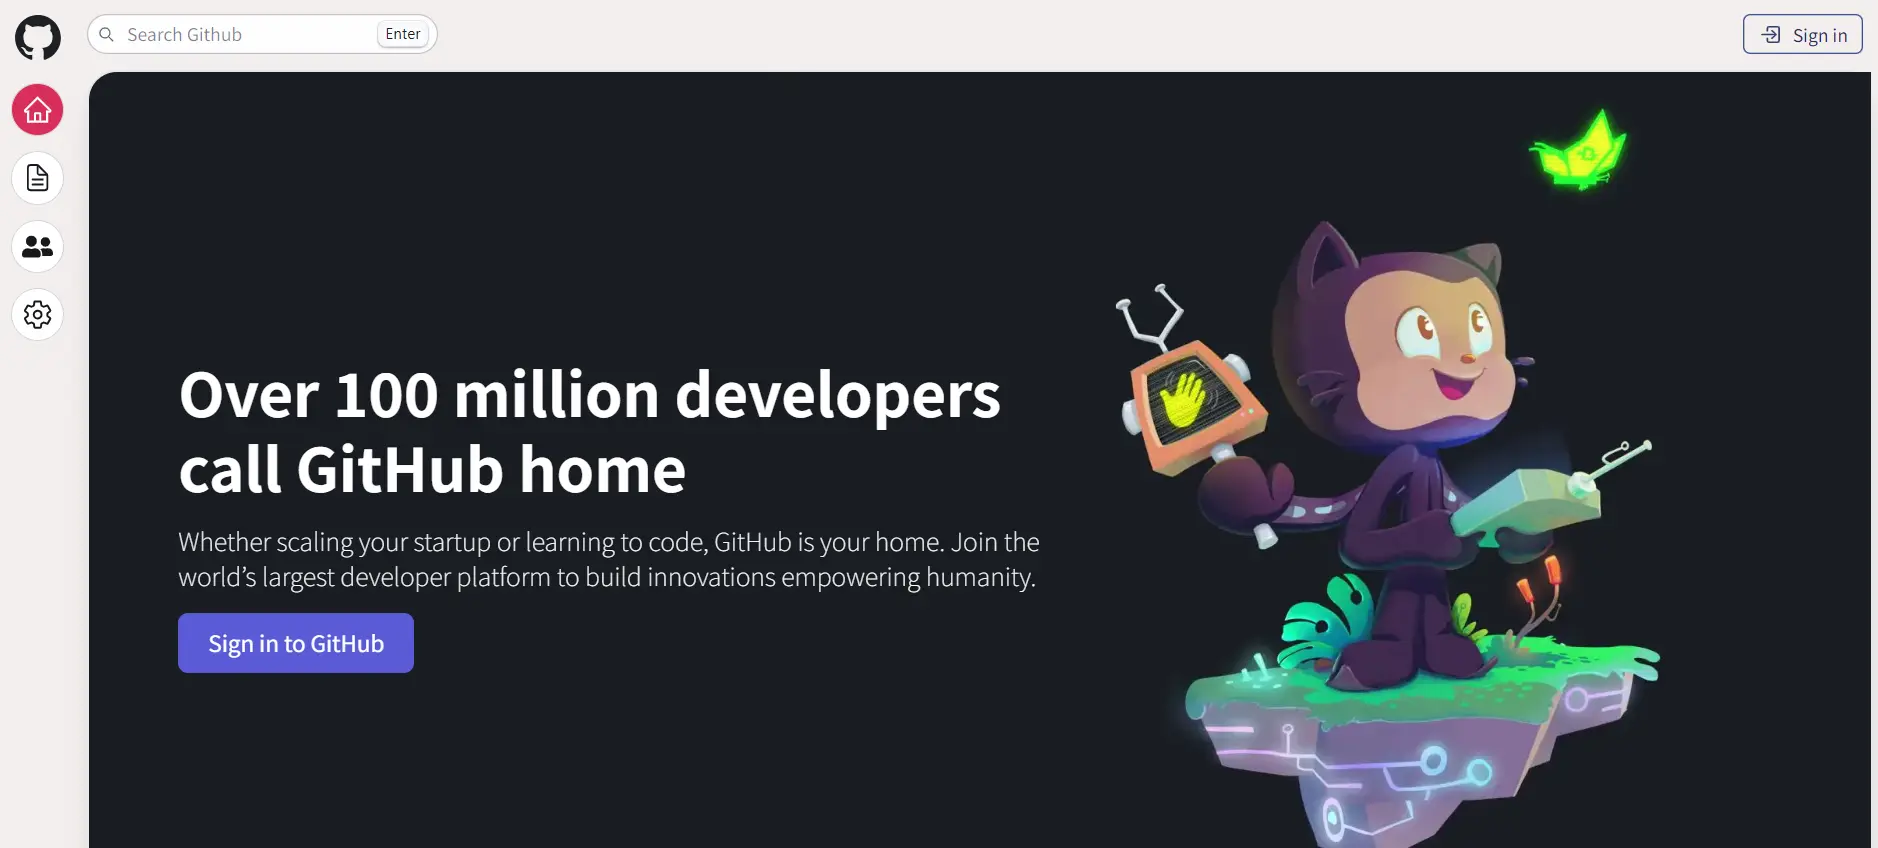
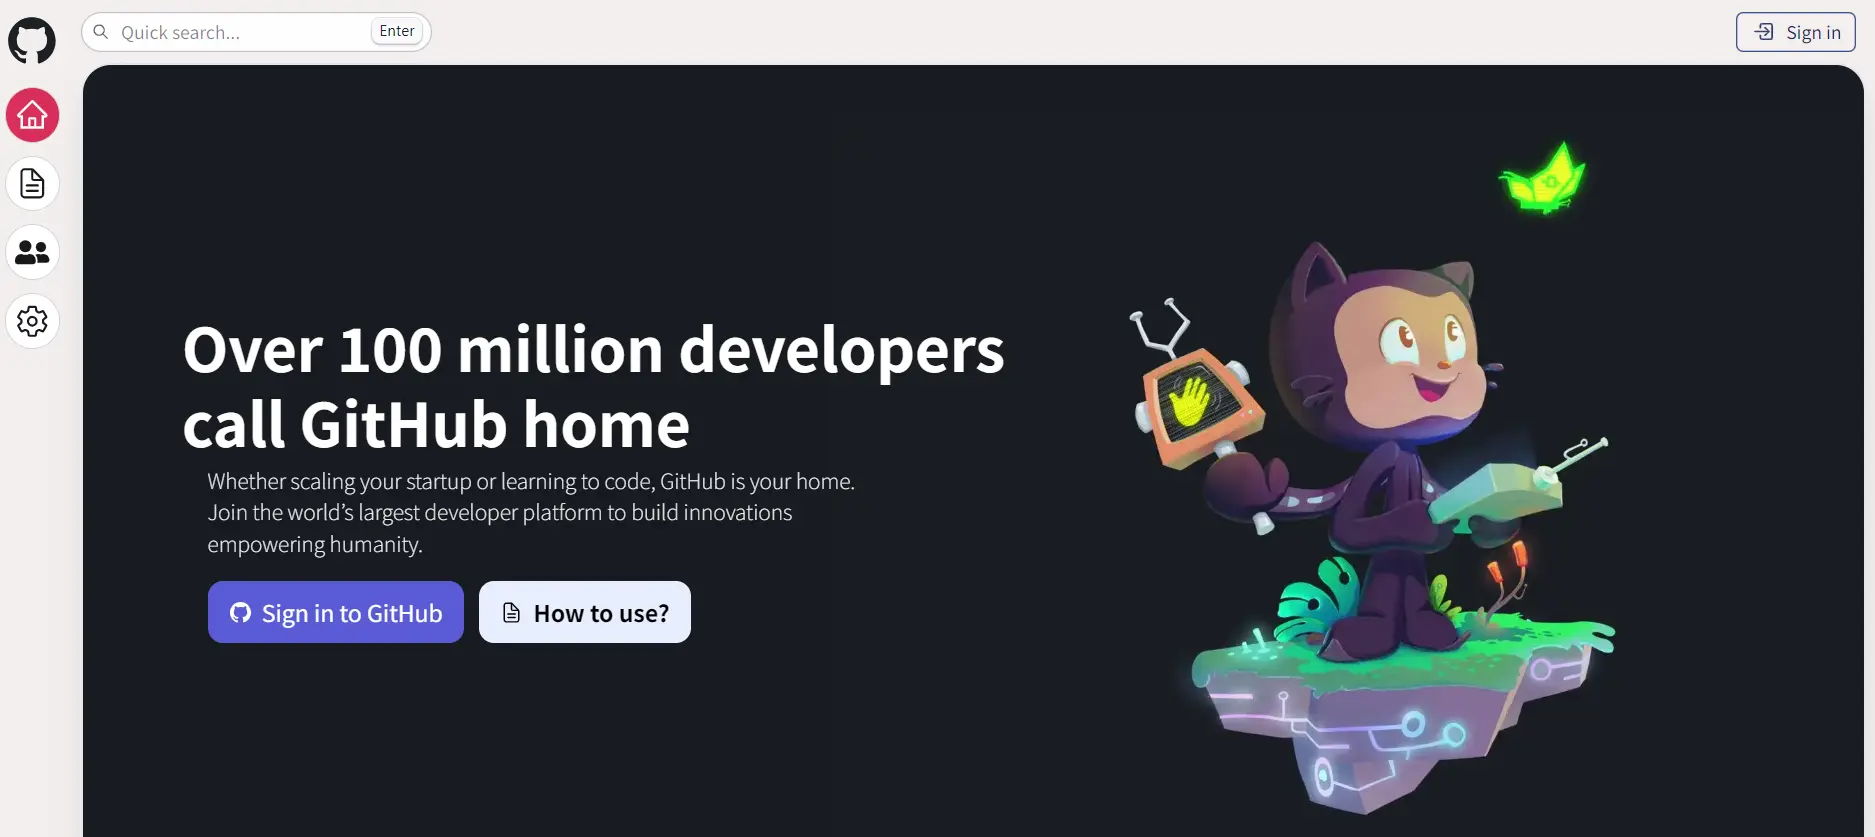
:lipstick: Gitflow chart 컴포넌트 추가 및 Qeury client staletime 설정

diff --git a/src/app/(hero)/_components/GitFlow.tsx b/src/app/(hero)/_components/GitFlow.tsx
@@ -1,0 +1,104 @@
+"use client";
+import { Gitgraph, Orientation, templateExtend } from "@gitgraph/react";
+
+enum TemplateName {
+  Metro = "metro",
+  BlackArrow = "blackarrow",
+}
+
+const options = {
+  branchLabelOnEveryCommit: true,
+  orientation: Orientation.Horizontal,
+  template: templateExtend(TemplateName.Metro, {
+    colors: [
+      "#fa6d01",
+      "#4f4f4f",
+      "#34ccc1",
+      "darkgreen",
+      "yellowgreen",
+      "navy",
+    ],
+    branch: {
+      lineWidth: 6,
+      spacing: 40,
+      label: {
+        display: false,
+      },
+    },
+    commit: {
+      message: {
+        displayAuthor: false,
+        displayHash: false,
+      },
+      dot: {
+        size: 15,
+        strokeColor: "white",
+        strokeWidth: 2,
+      },
+      spacing: 50,
+    },
+    arrow: {
+      size: 0,
+      color: "orange",
+      offset: -1.5,
+    },
+  }),
+};
+
+const GitFlow = () => {
+  return (
+    <Gitgraph options={options}>
+      {(gitgraph) => {
+        const master = gitgraph.branch("Main");
+        master.commit("");
+        master.commit("");
+        master.commit({
+          dotText: "A",
+          style: {
+            dot: {
+              size: 15,
+              color: "white",
+              strokeWidth: 5,
+              strokeColor: "#fa6d01",
+            },
+          },
+        });
+        let branch1 = gitgraph.branch("1");
+        branch1.commit("");
+        branch1.commit({
+          dotText: "B",
+          style: {
+            dot: {
+              size: 15,
+              color: "white",
+              strokeWidth: 5,
+              strokeColor: "#4f4f4f",
+            },
+          },
+        });
+        let branch2 = branch1.branch("2");
+        branch2.commit("");
+        master.commit("");
+        branch2.commit("");
+        branch1.merge(branch2);
+        branch1.commit("");
+        master.merge({
+          branch: branch1,
+          commitOptions: {
+            dotText: "C",
+            style: {
+              dot: {
+                size: 15,
+                color: "white",
+                strokeWidth: 5,
+                strokeColor: "#fa6d01",
+              },
+            },
+          },
+        });
+      }}
+    </Gitgraph>
+  );
+};
+
+export default GitFlow;

diff --git a/src/app/(hero)/_components/HeroMotion.tsx b/src/app/(hero)/_components/HeroMotion.tsx
@@ -11,6 +11,7 @@ import LoadingSpinner from "@/app/components/LoadingSpinner";
 import { useSession } from "next-auth/react";
 import useSplash from "@/hooks/useSplash";
 import HeroButtonGroup from "./HeroButtonGroup";
+// import GitFlow from "./GitFlow";
 
 const HeroMotion = () => {
   const [currentIndex, setCurrentIndex] = useState(1);
@@ -19,6 +20,7 @@ const HeroMotion = () => {
   const { status } = useSession();
   const totalRatio = useTransform(scrollYProgress, [0, 0.4], [0, 1]);
   const { showSplash } = useSplash();
+  // const width = useTransform(scrollYProgress, [0, 0.4], ["0%", "120%"]);
 
   useMotionValueEvent(scrollYProgress, "change", (latest) => {
     setCurrentIndex(Math.round(totalRatio.get() * 159) + 1);
@@ -38,6 +40,12 @@ const HeroMotion = () => {
     <div className="h-[200vh]">
       <div className="sticky top-0 flex justify-between items-center">
         <div className="relative left-[7%] z-[100] text-white flex flex-col space-y-[2.5vh]">
+          {/* <motion.div
+            className="relative"
+            style={{ width, overflow: "hidden" }}
+          >
+            <GitFlow />
+          </motion.div> */}
           <div className="font-semibold text-[2.5vw] max-w-[50vw] leading-tight scale-125 translate-x-[3vw]">
             <div>Over 100 million developers call GitHub home</div>
           </div>
@@ -55,7 +63,7 @@ const HeroMotion = () => {
             width={900}
             height={675}
             alt={`octocat${currentIndex}`}
-            className="translate-x-[4vw] translate-y-[5vh]"
+            className="translate-x-[4vw] translate-y-[5vh] z-50"
             priority
             ref={ref}
           />

diff --git a/src/app/(hero)/_components/HeroButton.tsx b/src/app/(hero)/_components/HeroButton.tsx
@@ -3,19 +3,19 @@ import React from "react";
 type Props = {
   title: string;
   icon: React.ReactNode;
-  color: "white" | "iris";
+  color: "white" | "blue";
   onClick: () => void;
 };
 
-// todo: classnames 추가
 const HeroButton = ({ title, icon, color, onClick }: Props) => {
-  const buttonColor = color === "white" ? "#e7eefe" : "#5b5bd5";
-  const textColor = color === "white" ? "text-black" : "";
-  const font = color === "white" ? "font-semibold" : "font-normal";
+  const colorStyle =
+    color === "white"
+      ? "bg-[#e7eefe] border-[#e7eefe] text-black font-semibold"
+      : "bg-[#5b5bd5] border-[#5b5bd5] text-white font-normal";
 
   return (
     <button
-      className={`self-start ${font} ${textColor} text-[1.2vw] border-2 border-[${buttonColor}] p-[0.6vw] px-[1vw] rounded-xl bg-[${buttonColor}] hover:opacity-85`}
+      className={`${colorStyle} self-start text-[1.2vw] border-2 p-[0.6vw] px-[1vw] rounded-xl  hover:opacity-85`}
       onClick={onClick}
     >
       <div className="flex gap-2 items-center">

diff --git a/src/app/QueryClientProvider.tsx b/src/app/QueryClientProvider.tsx
@@ -9,9 +9,11 @@ import { PropsWithChildren } from "react";
 const queryClient = new QueryClient({
   defaultOptions: {
     queries: {
-      refetchOnMount: false, // 컴포넌트가 마운트될 때 해당 쿼리를 다시 불러올지
-      refetchOnWindowFocus: false, // 윈도우 포커스마다 불러올지
-      retry: false, // 실패하면 자동으로 재시도할지
+      refetchOnMount: false,
+      refetchOnReconnect: false,
+      refetchOnWindowFocus: false,
+      retry: false,
+      staleTime: 1000 * 60 * 60,
     },
   },
   queryCache: new QueryCache({

diff --git a/src/app/(hero)/_components/HeroButtonGroup.tsx b/src/app/(hero)/_components/HeroButtonGroup.tsx
@@ -15,14 +15,14 @@ const HeroButtonGroup = () => {
       {user ? (
         <HeroButton
           title="Dashboard"
-          color="iris"
+          color="blue"
           icon={<DashboardIcon size={"1.2vw"} />}
           onClick={() => router.push("/me")}
         />
       ) : (
         <HeroButton
           title="Sign in to GitHub"
-          color="iris"
+          color="blue"
           icon={<GithubIcon size={"1.2vw"} />}
           onClick={() => {
             router.push("/api/auth/signin");

diff --git a/src/app/(another)/setting/page.tsx b/src/app/(another)/setting/page.tsx
@@ -8,7 +8,6 @@ const SettingPage = () => {
         깃허브 계정연동? (한다면 카카오랑 구글 로그인 추가 +로컬 로그인)
       </div>
       <div>그외의 설정 찾아보기</div>
-      <div>README같은 느낌으로?</div>
       <div>그냥 페이지 삭제?</div>
     </div>
   );
